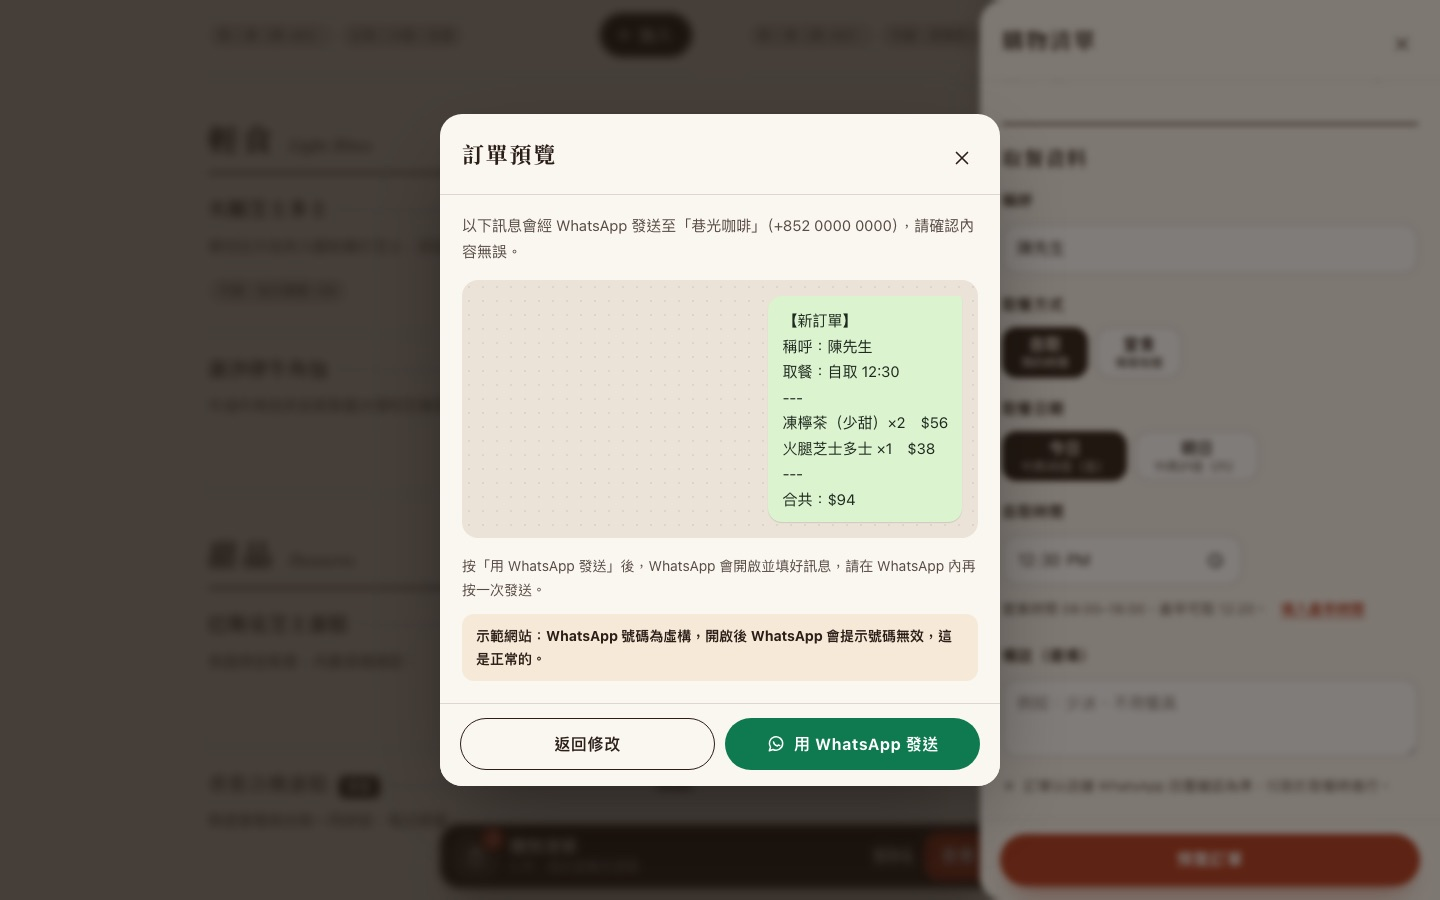
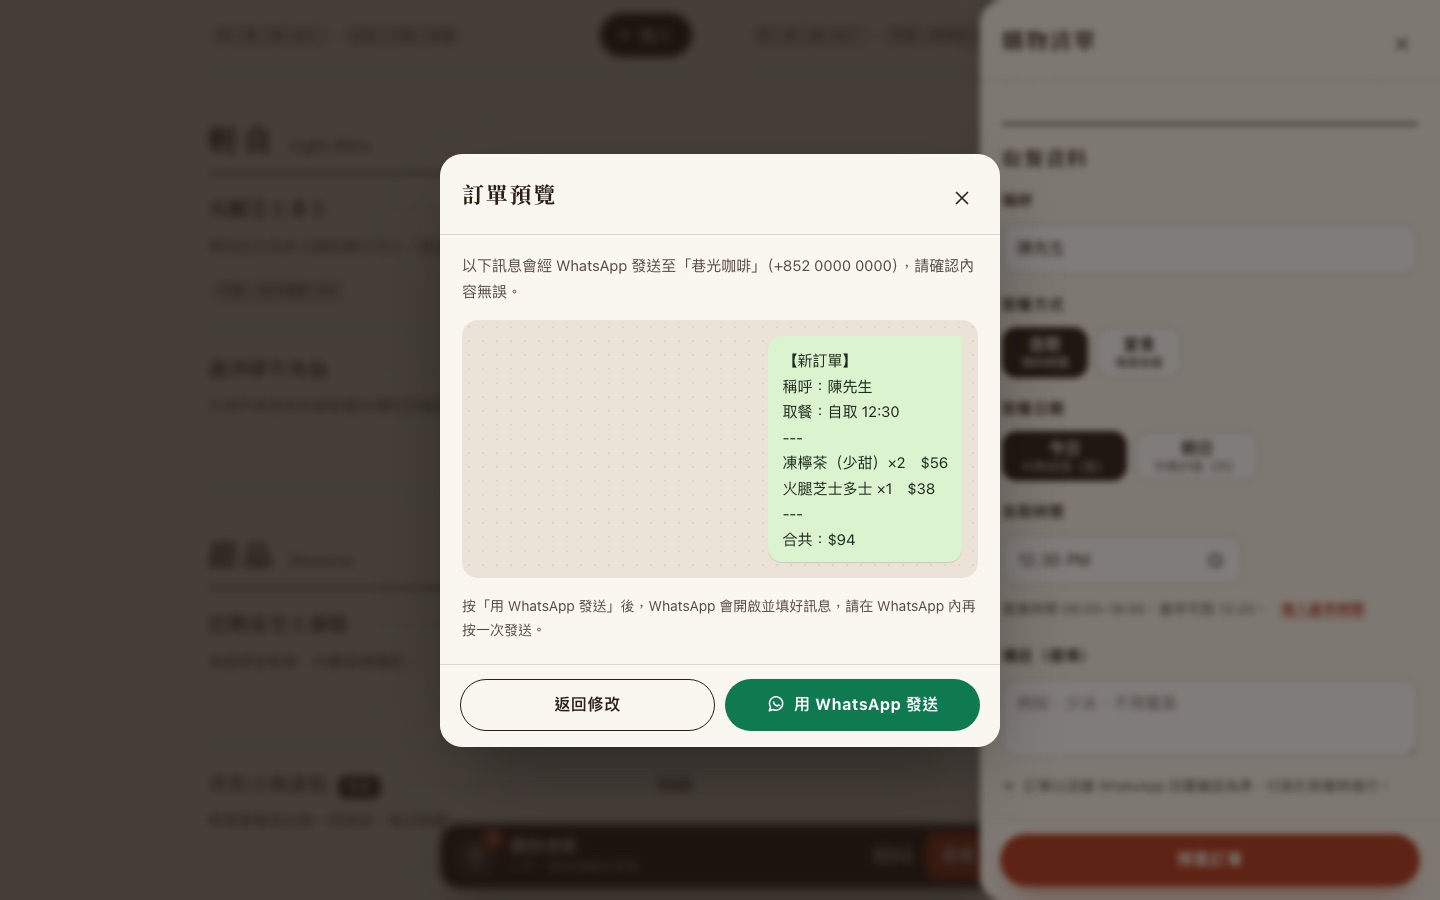
示範模式按發送改為顯示說明視窗及「我也想要這樣的網站」；頁尾加入製作者署名（credit）；補上測試

Changed region(s): [[0.2812, 0.5911, 0.7188, 0.8711], [0.2812, 0.1244, 0.7188, 0.56]]

diff --git a/lib/render.js b/lib/render.js
@@ -22,6 +22,7 @@ const ICONS = {
     '<path d="M5.2 4h3.3l1.6 4.1-2 1.3a11 11 0 0 0 6.5 6.5l1.3-2 4.1 1.6v3.3a1.2 1.2 0 0 1-1.3 1.2A16 16 0 0 1 4 5.3 1.2 1.2 0 0 1 5.2 4Z"/>',
   chat: '<path d="M20 11.5a8 8 0 0 1-11.6 7.1L4 20l1.4-4.2A8 8 0 1 1 20 11.5Z"/>',
   ig: '<rect x="3.5" y="3.5" width="17" height="17" rx="5"/><circle cx="12" cy="12" r="4"/><path d="M17.2 6.8h.01"/>',
+  wa: '<path d="M20 11.5a8 8 0 0 1-11.6 7.1L4 20l1.4-4.2A8 8 0 1 1 20 11.5Z"/><path d="M9 9.5c.3 2.3 2.2 4.3 4.6 4.8l1.2-1.2 1.7.8"/>',
   mail: '<rect x="3.5" y="5.5" width="17" height="13" rx="2"/><path d="m4 7 8 6 8-6"/>',
 };
 const icon = (n) => `<svg class="i" viewBox="0 0 24 24" aria-hidden="true" focusable="false">${ICONS[n]}</svg>`;
@@ -155,14 +156,37 @@ function render(M, opts = {}) {
       )}</a> 落單。</div></noscript>`
     : "";
 
-  const url = safeUrl(M.footer.creditUrl);
+  // 製作者署名：「網站由 {name} 製作・查詢」
+  const cr = M.credit;
+  const crLink = (text, label) =>
+    `<a href="${esc(cr.url)}" target="_blank" rel="noopener"${label ? ` aria-label="${esc(label)}"` : ""}>${text}</a>`;
+  const credit = cr.name
+    ? `<p class="footer-credit">網站由 ${cr.url ? crLink(esc(cr.name)) : esc(cr.name)} 製作` +
+      (cr.url ? `・${crLink("查詢", "查詢網站製作（" + cr.name + "）")}` : "") +
+      `</p>`
+    : "";
   const footer =
     `<p class="footer-brand">${esc(M.name)}${M.nameEn ? ` <span lang="en">${esc(M.nameEn)}</span>` : ""}</p>` +
     (M.demo ? `<p class="footer-demo">示範作品・店名及內容純屬虛構</p>` : "") +
     `<p class="footer-copy">© ${opts.year || new Date().getFullYear()} ${esc(M.name)}</p>` +
-    (M.footer.credit
-      ? `<p class="footer-credit">${url ? `<a href="${esc(url)}" target="_blank" rel="noopener">${esc(M.footer.credit)}</a>` : esc(M.footer.credit)}</p>`
-      : "");
+    credit;
+
+  // 「用 WhatsApp 發送」：正式模式是開啟 wa.me 的連結；示範模式是按鈕，只顯示說明視窗
+  const sendLabel = `${icon("wa")}用 WhatsApp 發送`;
+  const sendButton = M.demo
+    ? `<button type="button" class="btn btn-wa" id="waSend" aria-haspopup="dialog">${sendLabel}</button>`
+    : `<a class="btn btn-wa" id="waSend" href="#" target="_blank" rel="noopener">${sendLabel}</a>`;
+  const demoDialog =
+    M.demo && order
+      ? `<dialog class="modal" id="demoDialog" aria-labelledby="demoTitle"><div class="sheet-inner">` +
+        `<div class="sheet-head"><h3 class="sheet-title" id="demoTitle">示範網站</h3>` +
+        `<button type="button" class="icon-btn" data-close aria-label="關閉"><svg class="i" viewBox="0 0 24 24" aria-hidden="true"><path d="M6 6l12 12M18 6 6 18"/></svg></button></div>` +
+        `<div class="sheet-body"><p class="modal-lead">這是示範網站。正式網站按下此按鈕後，會打開 WhatsApp 並自動填好以下訂單訊息，直接發送給店舖。</p>` +
+        `<div class="chat"><pre class="bubble" id="demoText"></pre></div></div>` +
+        `<div class="sheet-foot modal-actions"><button type="button" class="btn btn-outline" data-close>返回</button>` +
+        (cr.url ? `<a class="btn btn-primary" id="demoCta" href="${esc(cr.url)}" target="_blank" rel="noopener">我也想要這樣的網站</a>` : "") +
+        `</div></div></dialog>`
+      : "";
 
   const hasAbout = M.about.paragraphs.length || M.about.highlights.length;
 
@@ -186,6 +210,8 @@ function render(M, opts = {}) {
       (M.contact.phone ? `<a class="btn btn-outline" href="tel:+${M.contact.phone}">${icon("phone")}致電</a>` : "") +
       `</div>`,
     footer,
+    sendButton,
+    demoDialog,
     name: esc(M.name),
   };
 }

diff --git a/tests/build.test.js b/tests/build.test.js
@@ -77,3 +77,39 @@ test("關閉落單：沒有落單按鈕及提示", () => {
   assert.ok(!html.includes('id="order-help"'));
   assert.match(html, /查看菜單/);
 });
+
+const between = (html, start, end) => {
+  const i = html.indexOf(start);
+  return i < 0 ? "" : html.slice(i, html.indexOf(end, i) + end.length);
+};
+
+test("示範模式：發送按鈕不連到 wa.me，改開說明視窗及「我也想要這樣的網站」", () => {
+  const { html } = buildCopy();
+  const send = between(html, 'id="waSend"', "</button>");
+  assert.ok(send, "示範模式的發送鍵應是按鈕");
+  assert.ok(!/<a[^>]*id="waSend"/.test(html), "不應有 wa.me 發送連結");
+  const dialog = between(html, '<dialog class="modal" id="demoDialog"', "</dialog>");
+  assert.match(dialog, /這是示範網站。正式網站按下此按鈕後，會打開 WhatsApp 並自動填好以下訂單訊息，直接發送給店舖。/);
+  assert.match(dialog, /id="demoText"/);
+  assert.match(dialog, /<a class="btn btn-primary" id="demoCta" href="https:\/\/example\.com\/golive-web"[^>]*>我也想要這樣的網站<\/a>/);
+});
+
+test("正式模式：發送鍵是 wa.me 連結，沒有示範說明視窗", () => {
+  const { status, html } = buildCopy((s) =>
+    s.replace("demo: true,", "demo: false,").replace('whatsapp: "85200000000"', 'whatsapp: "85261234567"')
+  );
+  assert.equal(status, 0);
+  assert.match(html, /<a class="btn btn-wa" id="waSend" href="#" target="_blank" rel="noopener">/);
+  assert.ok(!html.includes('id="demoDialog"'));
+  assert.ok(!html.includes("我也想要這樣的網站"));
+});
+
+test("頁尾署名：「網站由 {名稱} 製作・查詢」；留空不顯示；沒有連結時只顯示名稱", () => {
+  const credit = (html) => visibleText(between(html, '<p class="footer-credit">', "</p>")).replace(/\s+/g, "");
+  assert.equal(credit(buildCopy().html), "網站由GoLiveWeb製作・查詢");
+  const none = buildCopy((s) => s.replace('name: "GoLive Web",', 'name: "",'));
+  assert.ok(!none.html.includes("footer-credit"));
+  const noUrl = buildCopy((s) => s.replace('url: "https://example.com/golive-web",', 'url: "",'));
+  assert.equal(credit(noUrl.html), "網站由GoLiveWeb製作");
+  assert.ok(!noUrl.html.includes("demoCta"), "沒有連結時不顯示「我也想要這樣的網站」");
+});

diff --git a/index.html b/index.html
@@ -285,17 +285,13 @@
         <p class="modal-lead">以下訊息會經 WhatsApp 發送至「{{{name}}}」（<span id="previewNumber"></span>），請確認內容無誤。</p>
         <div class="chat"><pre class="bubble" id="previewText"></pre></div>
         <p class="fine">按「用 WhatsApp 發送」後，WhatsApp 會開啟並填好訊息，請在 WhatsApp 內再按一次發送。</p>
-        <p class="demo-note" id="demoNote" hidden>示範網站：WhatsApp 號碼為虛構，開啟後 WhatsApp 會提示號碼無效，這是正常的。</p>
         <div class="sent" id="sentPanel" hidden>
           <p><strong>已開啟 WhatsApp。</strong>在 WhatsApp 按發送後，請等候店舖回覆確認訂單。</p>
         </div>
       </div>
       <div class="sheet-foot modal-actions" id="previewActions">
         <button type="button" class="btn btn-outline" data-close>返回修改</button>
-        <a class="btn btn-wa" id="waSend" href="#" target="_blank" rel="noopener">
-          <svg class="i" viewBox="0 0 24 24" aria-hidden="true"><path d="M20 11.5a8 8 0 0 1-11.6 7.1L4 20l1.4-4.2A8 8 0 1 1 20 11.5Z"/><path d="M9 9.5c.3 2.3 2.2 4.3 4.6 4.8l1.2-1.2 1.7.8"/></svg>
-          用 WhatsApp 發送
-        </a>
+        {{{sendButton}}}
       </div>
       <div class="sheet-foot modal-actions" id="sentActions" hidden>
         <button type="button" class="btn btn-outline" data-close>保留清單</button>
@@ -303,6 +299,10 @@
       </div>
     </div>
   </dialog>
+
+
+  <!-- 示範模式的說明視窗（只在 demo: true 時產生） -->
+  {{{demoDialog}}}
 
   <div class="toast" id="toast" role="status" aria-live="polite"></div>
 </body>

diff --git a/config.js b/config.js
@@ -17,8 +17,9 @@ window.SHOP_CONFIG = {
   // 店舖代號：只可用英文細楷、數字及 -，每間店不同（用來分開各店的購物清單暫存）
   id: "lanelight-coffee",
 
-  // 示範模式：true 時頁尾顯示「示範作品・店名及內容純屬虛構」、訂單預覽提示號碼為虛構，
-  // 並要求搜尋引擎不要收錄。真實客戶的網站請改為 false。
+  // 示範模式：true 時頁尾顯示「示範作品・店名及內容純屬虛構」、要求搜尋引擎不要收錄，
+  // 而且按「用 WhatsApp 發送」不會真的開啟 WhatsApp，只顯示說明及訂單訊息。
+  // 真實客戶的網站請改為 false。
   demo: true,
 
   name: "巷光咖啡",
@@ -183,9 +184,11 @@ window.SHOP_CONFIG = {
     },
   ],
 
-  /* ---------- 8. 頁尾 ---------- */
-  footer: {
-    credit: "", // 例如 "網站製作：XXX"，留空則不顯示
-    creditUrl: "", // 製作者連結，可留空
+  /* ---------- 8. 網站製作者署名 ----------
+     頁尾顯示「網站由 {name} 製作・查詢」，連到 url。name 留空 "" 則不顯示。
+     示範模式下，訂單預覽的「我也想要這樣的網站」按鈕亦會連到 url。 */
+  credit: {
+    name: "GoLive Web",
+    url: "https://example.com/golive-web", // 佔位網址：之後換成 Carousell 主頁
   },
 };

diff --git a/assets/order.js b/assets/order.js
@@ -467,13 +467,14 @@
 
   /* ---------- 訂單預覽及發送 ---------- */
   const preview = $("#previewDialog");
-  const waLink = $("#waSend");
+  const waLink = $("#waSend"); // 正式模式是 wa.me 連結；示範模式是按鈕（由 build.js 產生）
+  const demoDialog = $("#demoDialog");
 
   function showPreview(msg) {
     $("#previewText").textContent = msg;
     $("#previewNumber").textContent = C.phoneText(M.contact.whatsapp);
-    waLink.href = C.waUrl(M.contact.whatsapp, msg);
-    $("#demoNote").hidden = !M.demo;
+    const target = C.sendTarget(M, msg);
+    if (!target.demo) waLink.href = target.url;
     $("#sentPanel").hidden = true;
     $("#sentActions").hidden = true;
     $("#previewActions").hidden = false;
@@ -487,6 +488,15 @@
       e.preventDefault();
       closeDialog(preview);
       form.requestSubmit();
+      return;
+    }
+    if (C.sendTarget(M, "").demo) {
+      // 示範模式：不開啟 WhatsApp，改為顯示說明及完整訂單訊息
+      e.preventDefault();
+      if (demoDialog) {
+        $("#demoText").textContent = $("#previewText").textContent;
+        openDialog(demoDialog);
+      }
       return;
     }
     setTimeout(() => {

diff --git a/assets/core.js b/assets/core.js
@@ -175,7 +175,7 @@
 
     const t = cfg.theme || {};
     const a = cfg.about || {};
-    const f = cfg.footer || {};
+    const cr = cfg.credit || {};
     return {
       id: str(cfg.id).toLowerCase().replace(/[^a-z0-9-]+/g, "-") || "shop",
       demo: !!cfg.demo,
@@ -203,7 +203,7 @@
       groups,
       items,
       categories,
-      footer: { credit: str(f.credit), creditUrl: str(f.creditUrl) },
+      credit: { name: str(cr.name), url: /^https?:\/\//i.test(str(cr.url)) ? str(cr.url) : "" },
       warnings,
     };
   }
@@ -515,6 +515,10 @@
   const waUrl = (number, text) =>
     "https://wa.me/" + digits(number) + (text ? "?text=" + encodeURIComponent(text) : "");
 
+  // 發送訂單：示範模式不開啟 WhatsApp，只顯示說明；正式模式回傳 wa.me 連結
+  const sendTarget = (model, text) =>
+    model.demo ? { demo: true, url: "" } : { demo: false, url: waUrl(model.contact.whatsapp, text) };
+
   return {
     WEEKDAYS,
     str,
@@ -551,5 +555,6 @@
     validateOrder,
     buildMessage,
     waUrl,
+    sendTarget,
   };
 });

diff --git a/tests/core.test.js b/tests/core.test.js
@@ -169,3 +169,19 @@ test("預訂明日：訊息附日期；輸入內容會清理", () => {
   assert.match(msg, /^檸檬撻 ×2　\$72$/m);
   assert.match(msg, /^備註：少冰 多謝$/m);
 });
+
+test("發送：示範模式不開啟 WhatsApp，正式模式回傳 wa.me 連結", () => {
+  const msg = "【新訂單】\n稱呼：陳先生";
+  assert.deepEqual(C.sendTarget(M, msg), { demo: true, url: "" });
+  const prod = C.normalize(Object.assign({}, RAW, { demo: false }));
+  const t = C.sendTarget(prod, msg);
+  assert.equal(t.demo, false);
+  assert.equal(t.url, "https://wa.me/85200000000?text=" + encodeURIComponent(msg));
+});
+
+test("製作者署名設定", () => {
+  assert.deepEqual(M.credit, { name: "GoLive Web", url: "https://example.com/golive-web" });
+  const bad = C.normalize(Object.assign({}, RAW, { credit: { name: "X", url: "javascript:alert(1)" } }));
+  assert.equal(bad.credit.url, "", "只接受 http(s) 連結");
+  assert.deepEqual(C.normalize(Object.assign({}, RAW, { credit: undefined })).credit, { name: "", url: "" });
+});

diff --git a/assets/styles.css b/assets/styles.css
@@ -1765,3 +1765,12 @@ html.modal-open body {
 .item-action .btn-add {
   text-decoration: none;
 }
+/* 製作者署名：連結加大點擊範圍 */
+.footer-credit a {
+  display: inline-block;
+  min-width: 44px;
+  padding: 10px 6px;
+  margin: -10px -4px;
+  text-align: center;
+  text-underline-offset: 3px;
+}

diff --git a/README.md b/README.md
@@ -4,9 +4,9 @@
 
 線上示範：<https://nethken284-debug.github.io/hk-cafe-whatsapp-demo/>
 
-| 手機版 | 選項 | 購物清單 | 訂單預覽 |
-| --- | --- | --- | --- |
-| ![手機首頁](screenshots/mobile-home.jpg) | ![選項](screenshots/mobile-options.jpg) | ![購物清單](screenshots/mobile-cart.jpg) | ![訂單預覽](screenshots/mobile-preview.jpg) |
+| 手機版 | 選項 | 購物清單 | 訂單預覽 | 示範模式發送 |
+| --- | --- | --- | --- | --- |
+| ![手機首頁](screenshots/mobile-home.jpg) | ![選項](screenshots/mobile-options.jpg) | ![購物清單](screenshots/mobile-cart.jpg) | ![訂單預覽](screenshots/mobile-preview.jpg) | ![示範模式發送](screenshots/mobile-demo-send.jpg) |
 
 ![電腦版](screenshots/desktop-home.jpg)
 
@@ -22,6 +22,7 @@
   - 取餐資料：稱呼、自取（日期＋時間）或堂食（枱號）、備註
   - 檢查：清單不能是空的；自取時間必須在營業時間內，而且最少比現在晚 N 分鐘（以香港時間計算）
   - 發送前先顯示「訂單預覽」，確認後以 `https://wa.me/<號碼>?text=<訊息>` 開啟 WhatsApp（手機開 App，電腦開 WhatsApp Web）
+  - **示範模式**（`demo: true`）按「用 WhatsApp 發送」不會開啟 WhatsApp，改為顯示說明視窗及完整訂單訊息，並有「我也想要這樣的網站」按鈕連到製作者聯絡連結；`demo: false` 時才會真正發送
   - 價錢一律用整數計算；購物清單存於瀏覽器（localStorage），重新整理不會消失
   - 整個落單功能可以一鍵關閉
 - **店舖內容預先渲染成靜態 HTML**：建置時由 `config.js` 產生，不執行 JavaScript 也能看到首屏、關於我們、菜單、營業時間、地址等全部資料（搜尋引擎及分享工具亦讀得到）；JavaScript 只負責落單互動。停用 JavaScript 時，「加入」按鈕會帶到提示，請客人直接 WhatsApp 落單
@@ -81,6 +82,7 @@ tests/core.test.js        ← 自動測試
    | `order` | 落單開關、自取／堂食、最少提前分鐘數、可預訂日數 |
    | `optionGroups` | 選項及加價（溫度、甜度等） |
    | `menu` | 菜單分類及項目：名稱、價錢（整數）、描述、選項、售罄、標籤 |
+   | `credit` | 頁尾製作者署名「網站由 {name} 製作・查詢」及連結 `url`；`name` 留空則不顯示 |
 
 3. **換分享預覽圖**（在 WhatsApp、Facebook、Carousell 貼連結時顯示的圖片），二選一：
    - 用店舖自己的相片，裁成 **1200×630**，存成 JPG（最好 300KB 以下），放到 `assets/`，再在 `config.js` 的 `share.image` 填上檔名；或
@@ -198,7 +200,7 @@ size: {
 node --test
 ```
 
-自動測試涵蓋：建置後的靜態 HTML 包含全部店舖資料、示範／正式模式的 noindex 規則、關閉落單、訊息格式及金額（包括上面的例子）、`wa.me` 連結編碼、相同選項合併、數量上限、售罄、非整數價錢、香港時區、營業時間外、時間太近、夜晚只可選明日、堂食檢查、空清單。
+自動測試涵蓋：示範模式不開啟 WhatsApp（說明視窗及「我也想要這樣的網站」）、正式模式的 wa.me 發送連結、頁尾署名、建置後的靜態 HTML 包含全部店舖資料、示範／正式模式的 noindex 規則、關閉落單、訊息格式及金額（包括上面的例子）、`wa.me` 連結編碼、相同選項合併、數量上限、售罄、非整數價錢、香港時區、營業時間外、時間太近、夜晚只可選明日、堂食檢查、空清單。
 
 在瀏覽器測試不同時間：打開網站後，在開發者工具 Console 輸入
 `ShopCore.setNow("2026-11-20T12:00:00+08:00")`，之後打開購物清單便會以這個時間檢查（重新整理後還原）。
@@ -222,7 +224,7 @@ node --test
 ## 新客人上線檢查清單
 
 - [ ] `config.js` 的 `id` 已改為新店舖代號
-- [ ] `demo` 已改為 **`false`**（頁尾不再顯示「示範作品」，搜尋引擎可以收錄）
+- [ ] `demo` 已改為 **`false`**（頁尾不再顯示「示範作品」，搜尋引擎可以收錄，「用 WhatsApp 發送」會真正開啟 WhatsApp）
 - [ ] WhatsApp 號碼已換成店舖號碼（852 開頭、只填數字），電話亦已更新
 - [ ] 分享預覽圖已換成這間店的圖片（1200×630），`share.image` 指向正確檔案
 - [ ] `share.siteUrl` 已改為最終網址（結尾有 `/`）
@@ -230,6 +232,7 @@ node --test
 - [ ] 營業時間、休息日、`timeZone` 正確
 - [ ] 菜單價錢全部是整數；選項加價正確；售罄項目已標記
 - [ ] `order.enabled`、`pickup`、`dineIn`、`leadMinutes`、`advanceDays` 符合店舖要求
+- [ ] `credit` 署名及連結正確（如客人不想顯示，把 `name` 留空）
 - [ ] 主色已按店舖品牌調整，按鈕白字清楚易讀
 - [ ] 執行 `node build.js` 沒有錯誤，`node --test` 全部通過
 - [ ] 已部署，並在 WhatsApp 貼一次網址，確認分享預覽圖及標題正確
